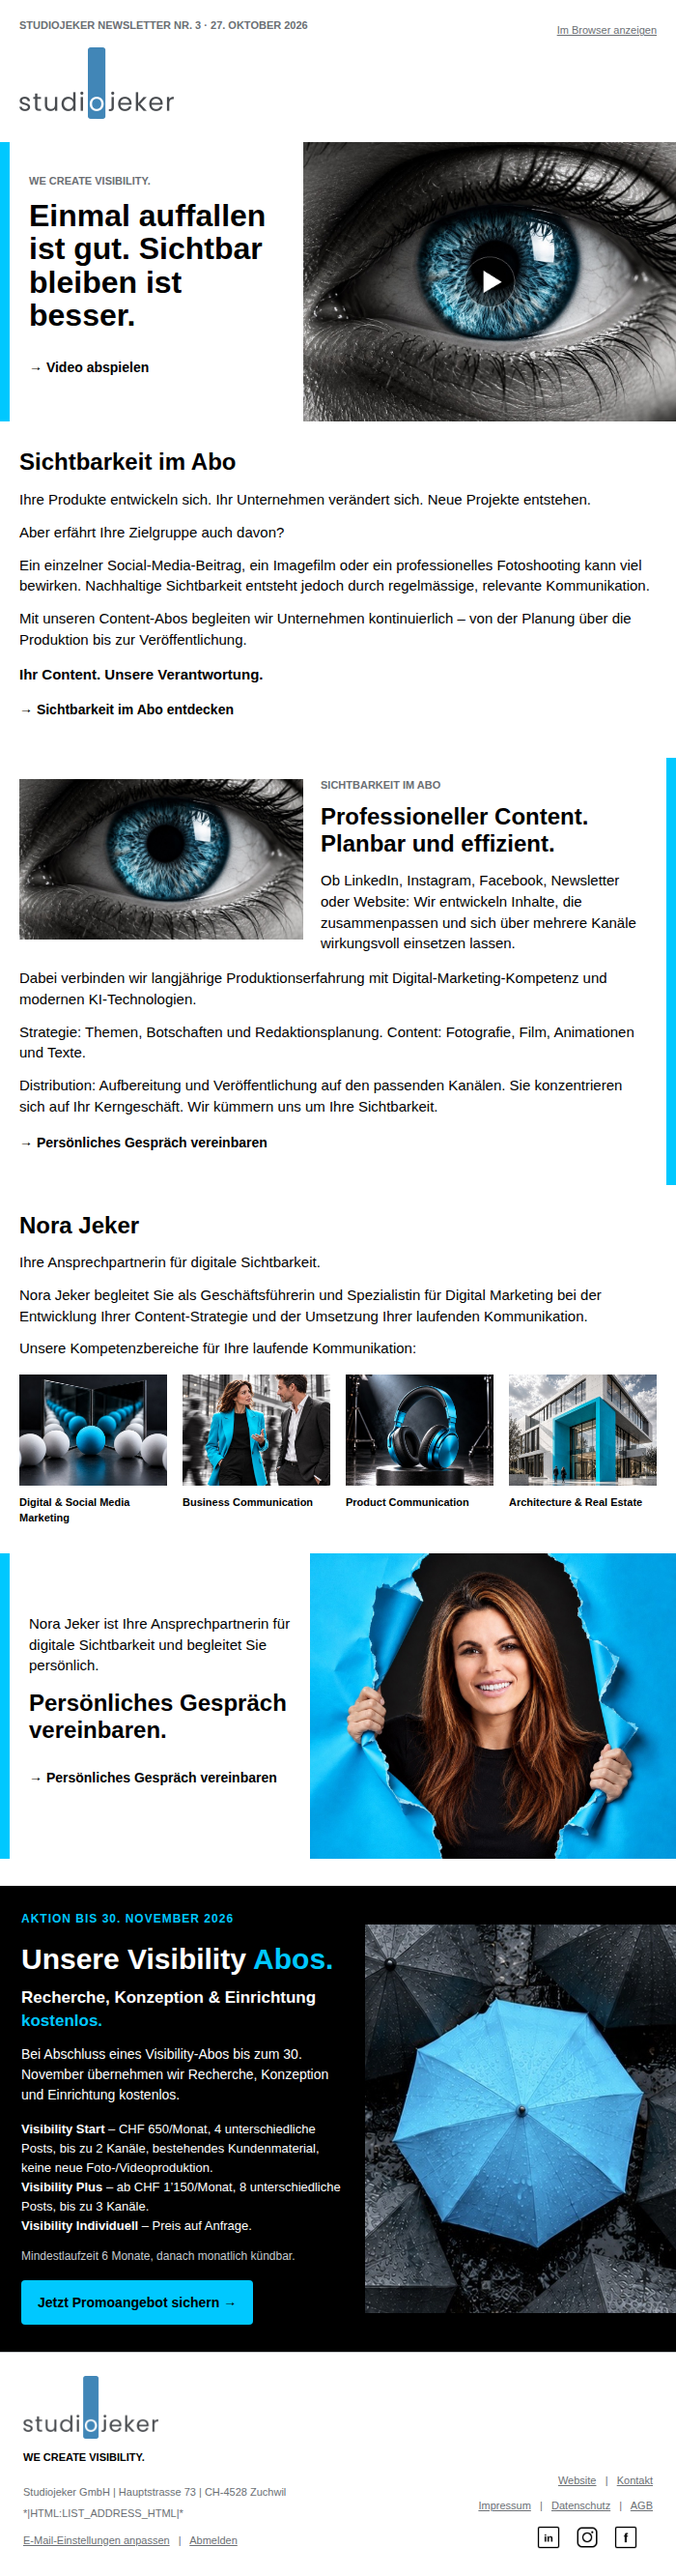
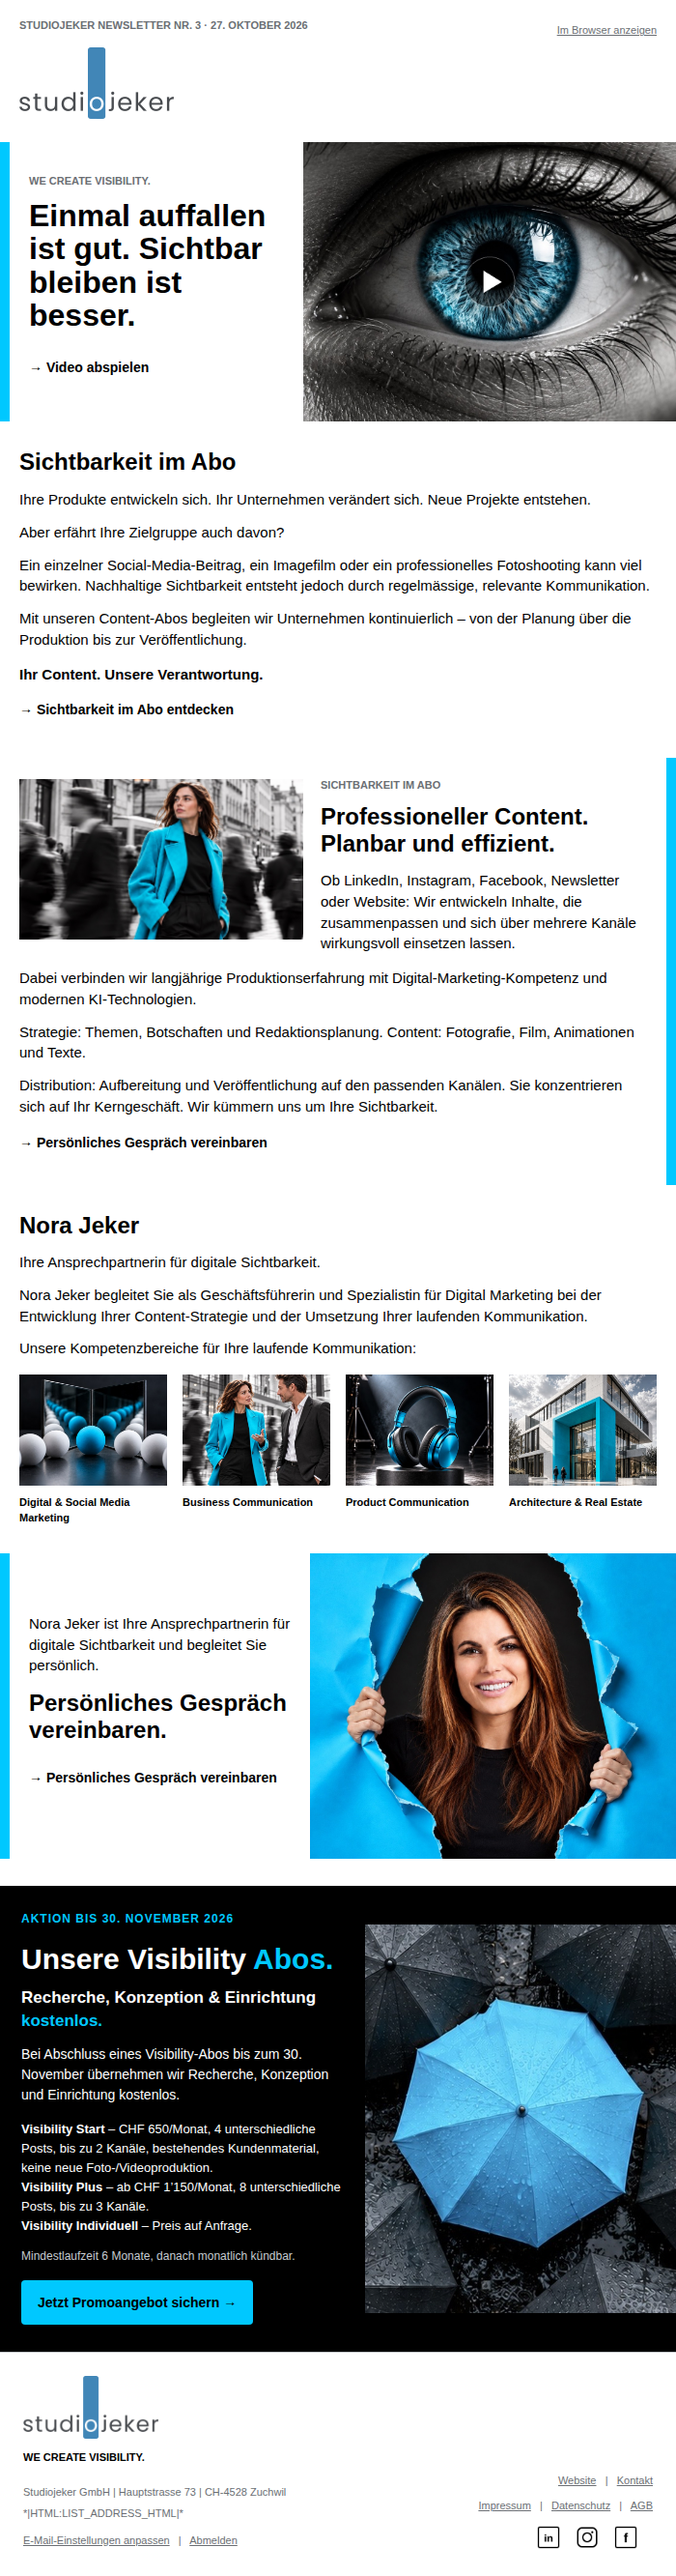
docs(mailchimp): refresh Newsletter V3 previews after content photo swap
Update desktop/mobile/320 captures and FINAL_REVIEW after replacing the
Professioneller-Content eye motif with the cyan-coat photo.

Changed region(s): [[0.03, 0.2803, 0.45, 0.3737]]

diff --git a/mailchimp/newsletter03/FINAL_REVIEW.md b/mailchimp/newsletter03/FINAL_REVIEW.md
@@ -40,3 +40,7 @@ URL-Prüfung (`url-final-checks.json`): 28/28 Ziele HTTP 200.
 
 Bereit für direkten Mailchimp-HTML-Import.  
 Kein Versand ohne ausdrückliche Freigabe. Vor Live-Versand: Mailchimp-Testmail (Clients + Merge-Tags).
+
+## Nachtrag: Content-Modul Bildersatz
+
+Das Augenmotiv neben «Professioneller Content» wurde durch das freigegebene Foto der Frau im cyanblauen Mantel ersetzt (`content-visibility.jpg`, commit `ac45e2f…`). Hero-Showreel (Auge mit Playbutton) unverändert.
